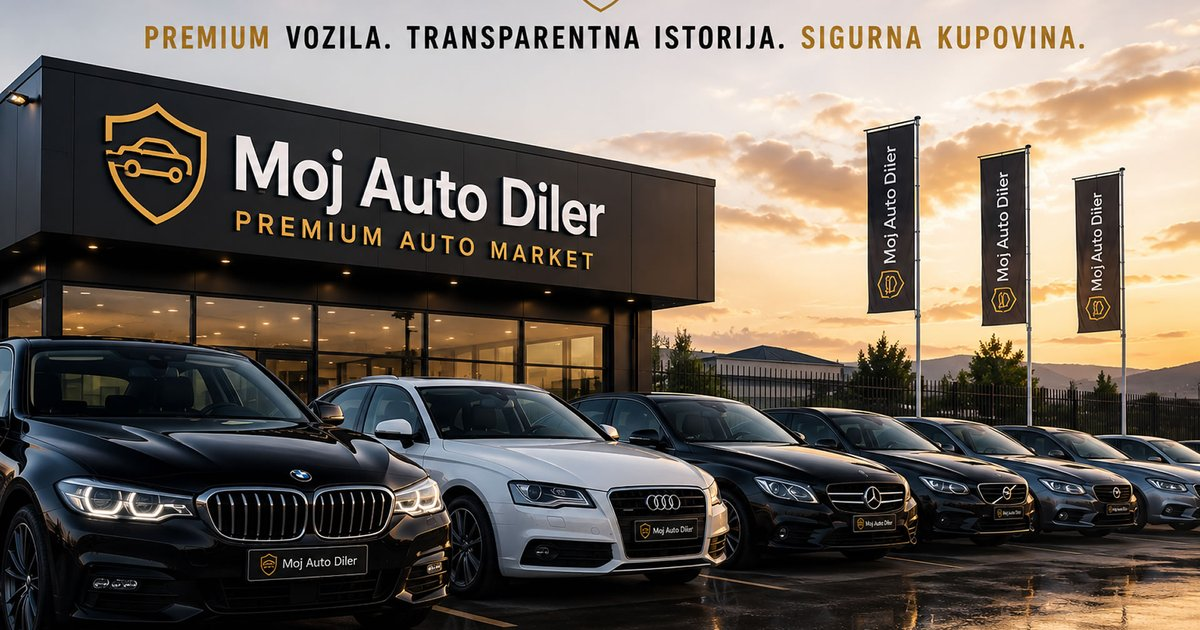
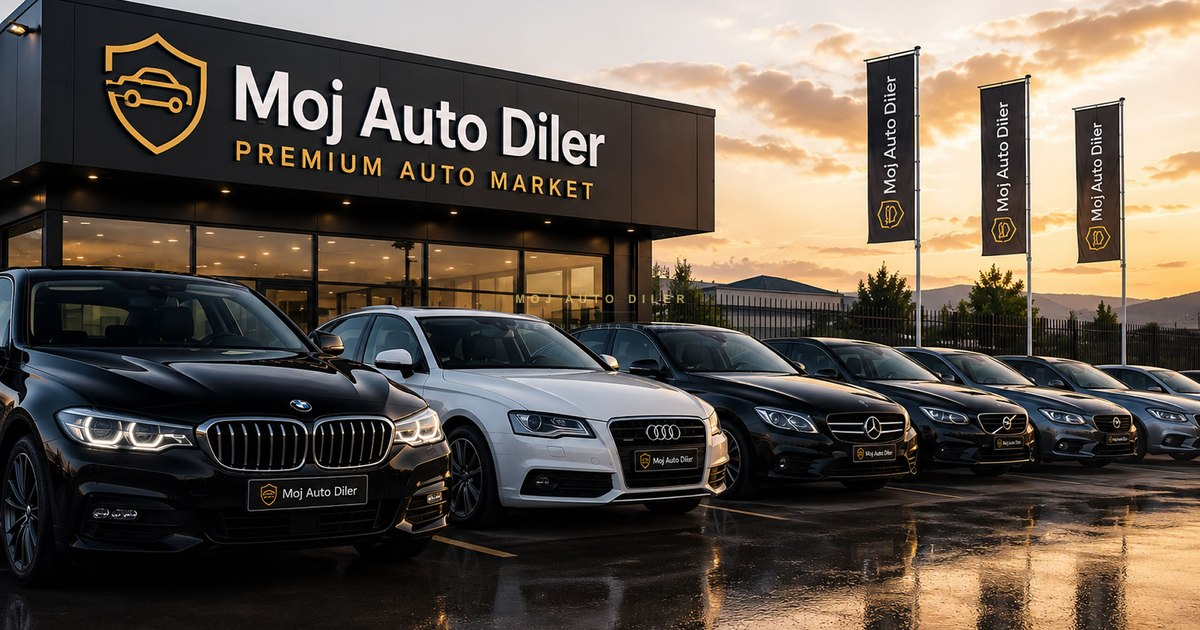
Refine branded OG image and watermark

diff --git a/app/globals.css b/app/globals.css
@@ -346,28 +346,29 @@ h1,h2,h3,h4,h5,h6 {
     pointer-events: none;
     user-select: none;
     transform: translate(-50%, -50%) rotate(-15deg);
-    color: rgba(255,255,255,0.16);
+    color: rgba(255,255,255,0.12);
     font-family: var(--font-display);
-    font-size: clamp(1.8rem, 7vw, 5.4rem);
-    font-weight: 800;
+    font-size: clamp(1rem, 3.5vw, 2.6rem);
+    font-weight: 700;
     line-height: 1;
-    letter-spacing: 0.08em;
-    text-shadow: 0 1px 10px rgba(0,0,0,0.18);
+    letter-spacing: 0.06em;
+    text-shadow: 0 1px 3px rgba(0,0,0,0.10);
     white-space: nowrap;
   }
   .vehicle-watermark-thumb {
-    font-size: 0.76rem;
-    letter-spacing: 0.07em;
-    opacity: 0.86;
-    text-shadow: 0 1px 4px rgba(0,0,0,0.24);
+    font-size: 0.52rem;
+    letter-spacing: 0.06em;
+    opacity: 0.80;
+    text-shadow: none;
   }
   .vehicle-lightbox-image {
     line-height: 0;
   }
   .vehicle-watermark-lightbox {
-    color: rgba(255,255,255,0.15);
-    font-size: clamp(2.2rem, 9vw, 7rem);
+    color: rgba(255,255,255,0.11);
+    font-size: clamp(1.1rem, 4.5vw, 3.5rem);
     z-index: 3;
+    text-shadow: 0 1px 3px rgba(0,0,0,0.08);
   }
   .vehicle-watermark-pattern {
     position: absolute;
